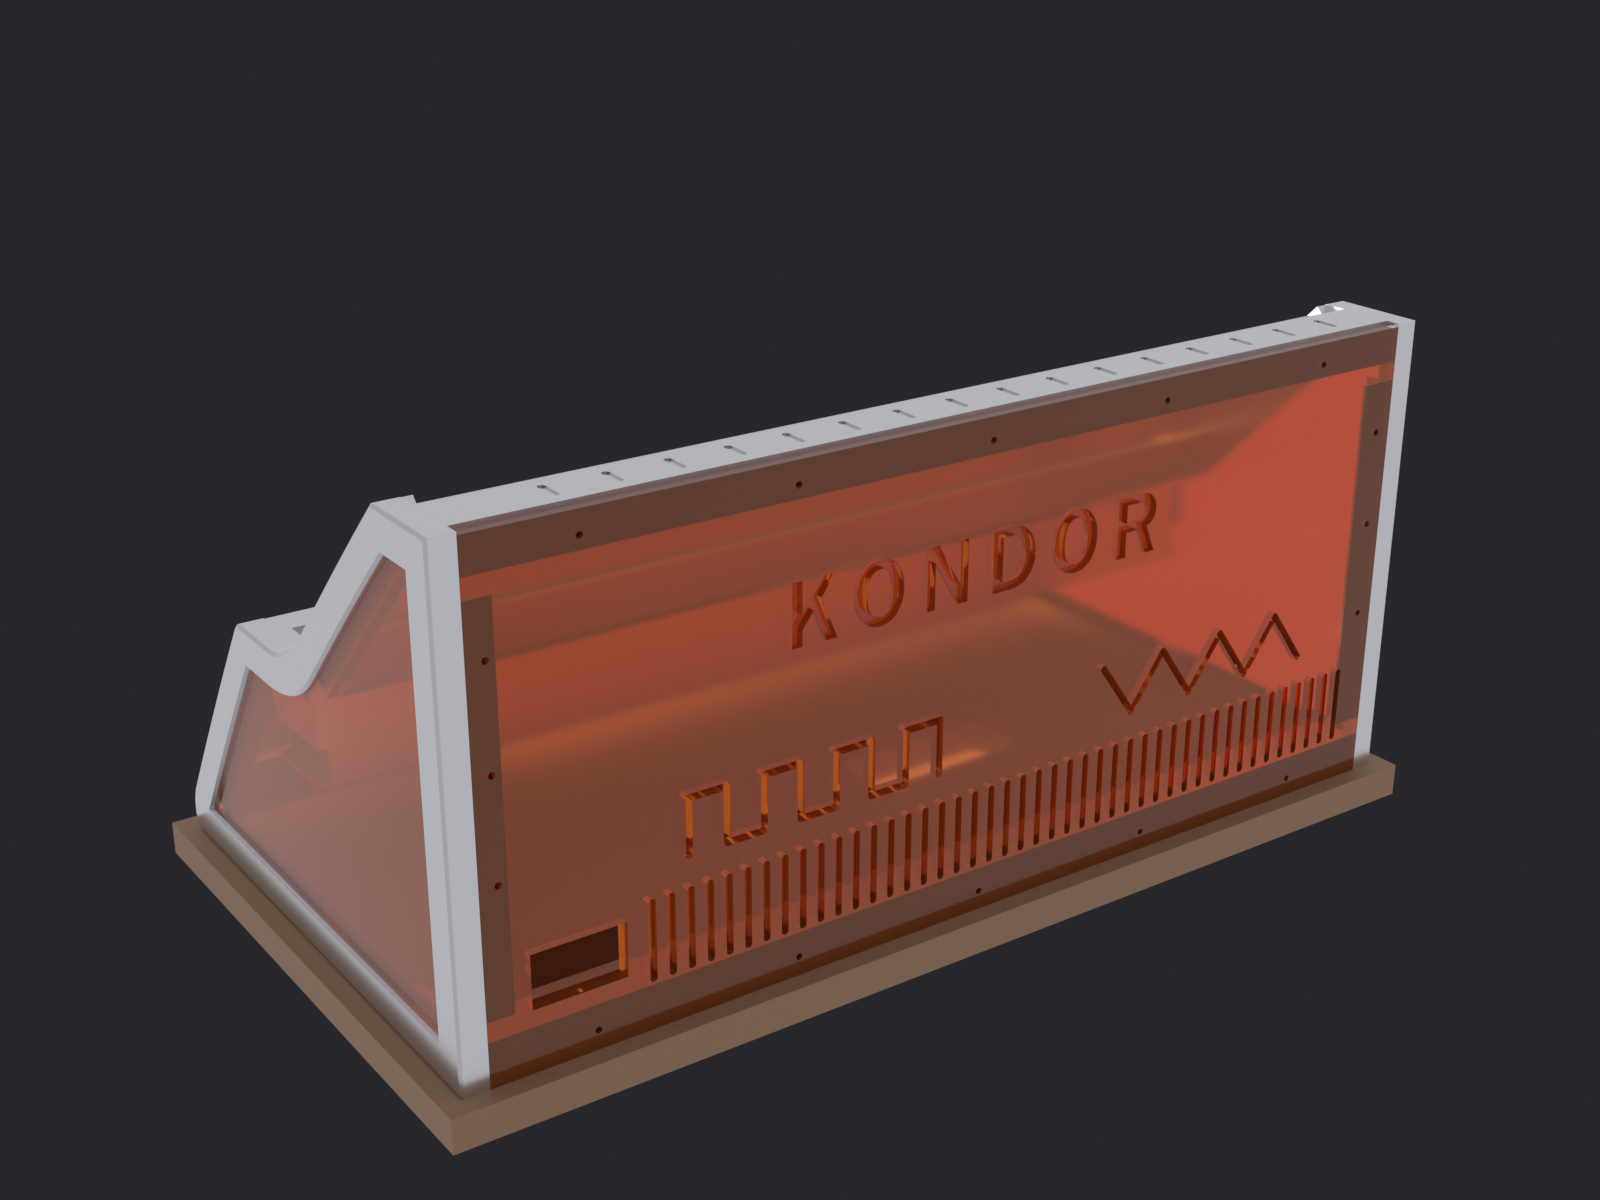
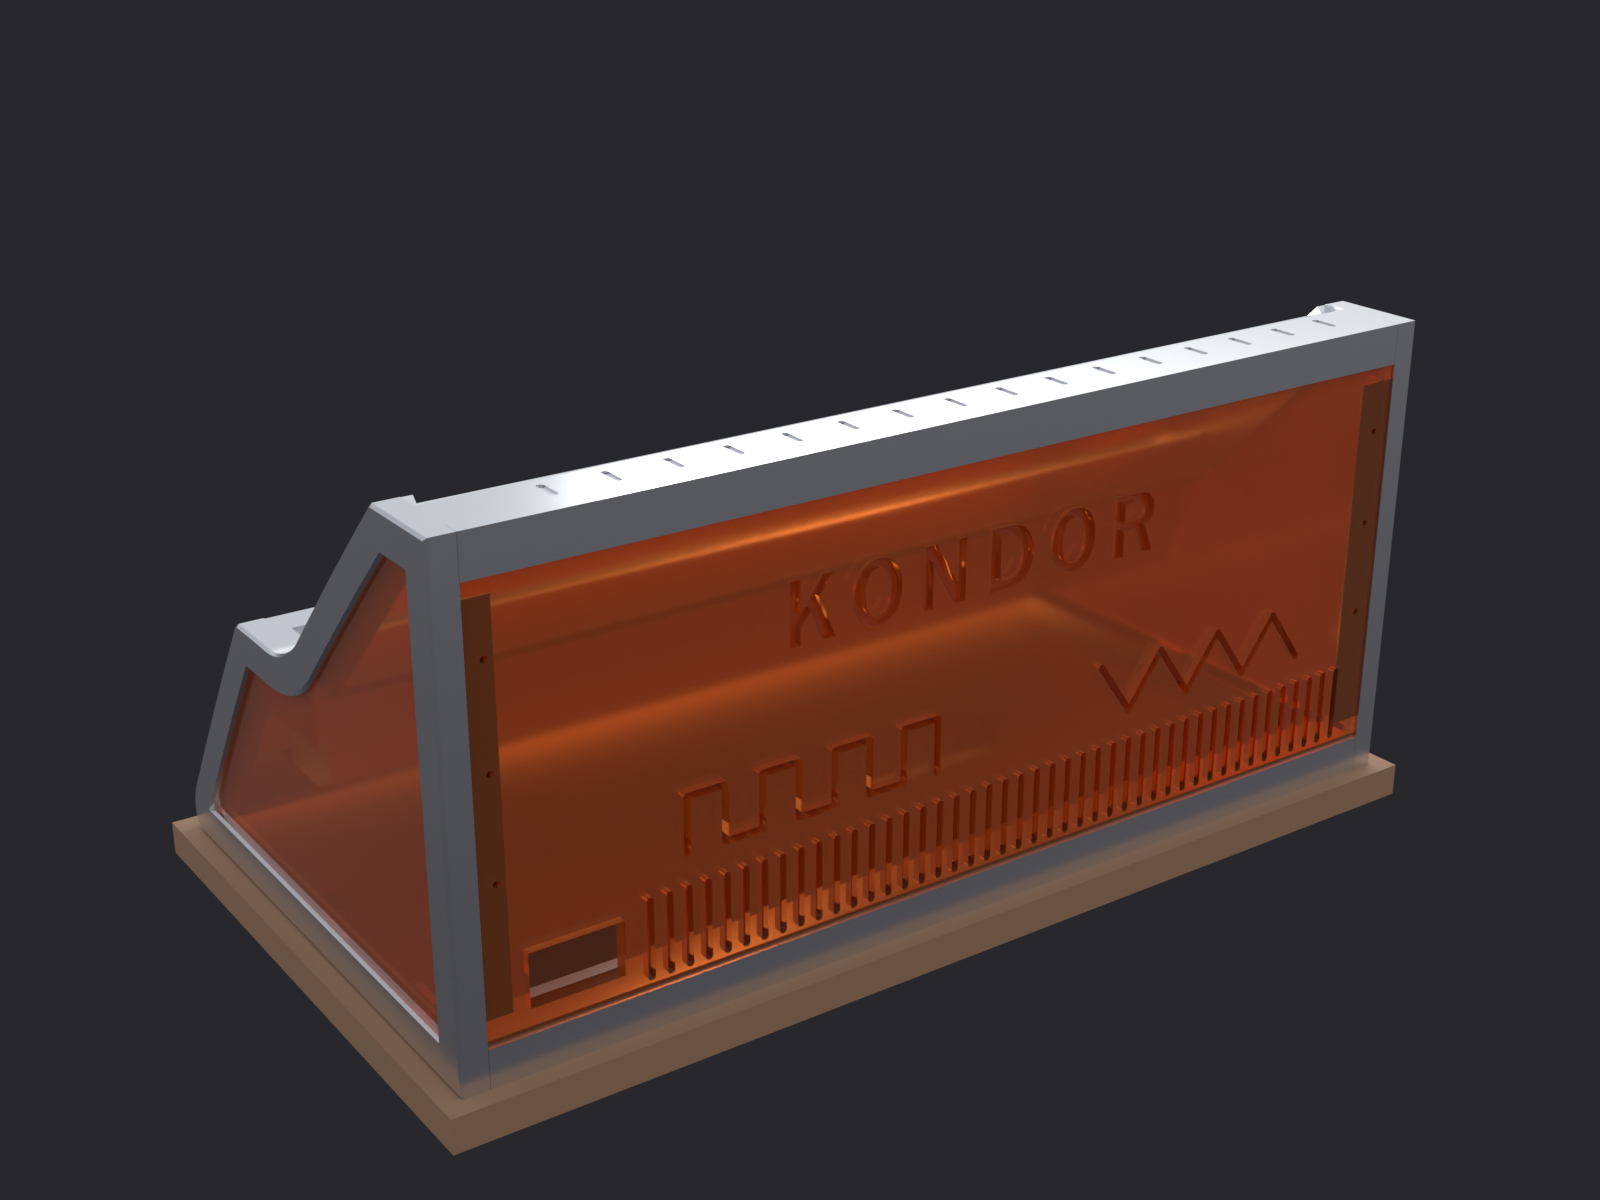
El aluminio no brillaba porque el sitio donde estaba era un gris liso
Dos intentos anteriores fueron de MATERIAL -- rugosidad 0.28 -> 0.25, base mas
oscura, anisotropico a 0 por no haber UV en los STL -- y ninguno movio la aguja,
porque la palanca no estaba ahi. Un metal pulido no brilla por su material:
ensena el entorno. Y el entorno era una esfera de un solo gris (0.6), o sea que
el chaflan reflejaba ese gris por igual en todo su largo. De ahi el degradado
ancho y sin acento.

El relleno GI pasa a ser un entorno de estudio hecho con nodos y sin fichero
HDRI -- un .hdr son megas de binario en un repo que ya carga 300 MB de DXF y
PNG, y no hace falta: la referencia es una vitrina en una sala, o sea suelo
oscuro, una banda clara a la altura de la vista y techo claro. Cinco paradas de
rampa sobre el eje Y, que es el arriba de este ensamblado (lo dice
construir_vista(), no un supuesto).

Y una TIRA, larga y estrecha, que es la primera luz de este fichero con
orientacion. Key y fill son cuadradas y grandes, y una fuente cuadrada se
refleja en un chaflan como una mancha que empieza y acaba -- por eso la arista
se encendia a trozos. Lo que enciende una arista de punta a punta es una fuente
larga y estrecha paralela a ella: es la razon por la que un estudio de producto
usa strip softbox y no un paraguas.

Medido, y las dos cifras van juntas porque una sola miente:

  frente    brillo 0.5903 -> 0.6351   pixeles saturados      3 -> 12732
  trasera   brillo 0.3776 -> 0.3071   pixeles saturados     75 -> 19498
[…]

Changed region(s): [[0.0938, 0.2467, 0.9062, 0.925]]

diff --git a/case/renders/render.py b/case/renders/render.py
@@ -144,12 +144,55 @@ mundo.use_nodes = True
 nt = mundo.node_tree
 fondo_visible = nt.nodes["Background"]
 fondo_visible.inputs[0].default_value = (0.02, 0.02, 0.025, 1)  # lo que ve la camara
+# EL RELLENO GI DEJA DE SER PLANO el 2026-08-29 (#235). Era un gris uniforme de
+# 0.6, y un gris uniforme es exactamente lo que NO tiene el sitio donde se hizo
+# la foto de referencia. Un metal pulido no "brilla" por su material: ensena el
+# entorno que lo rodea, y si el entorno es una esfera de un solo color, la
+# arista chaflanada refleja ese color por igual en todo su largo -- que es el
+# gradiente ancho y sin acento que se vio en los dos intentos anteriores. Los
+# dos fueron de MATERIAL (rugosidad 0.28 -> 0.25, base mas oscura, anisotropico
+# a 0 por falta de UV) y por eso ninguno lo movio: la palanca no estaba ahi.
+#
+# Lo que se pone en su sitio es un entorno de estudio, hecho con nodos y sin
+# fichero HDRI -- un .hdr son megas de binario en un repo que ya carga 300 MB
+# de DXF y PNG, y aqui no hace falta uno: la referencia es una vitrina en una
+# sala, o sea suelo oscuro, una banda clara a la altura de la vista y techo
+# claro. Eso es un degradado con un acento, y un degradado con un acento es
+# una rampa de cinco paradas.
+#
+# EL EJE ES Y y no Z: el ensamblado viene de STL con la altura en Y (lo dice
+# construir_vista(), arriba_mundo = (0,1,0)). Con Z el degradado saldria
+# tumbado y el acento cruzaria el case de lado a lado.
+coord = nt.nodes.new("ShaderNodeTexCoord")
+sep = nt.nodes.new("ShaderNodeSeparateXYZ")
+nt.links.new(coord.outputs["Generated"], sep.inputs["Vector"])
+# de [-1, 1] (mirando al suelo .. mirando al techo) a [0, 1]
+rango = nt.nodes.new("ShaderNodeMapRange")
+rango.inputs["From Min"].default_value = -1.0
+rango.inputs["From Max"].default_value = 1.0
+nt.links.new(sep.outputs["Y"], rango.inputs["Value"])
+rampa = nt.nodes.new("ShaderNodeValToRGB")
+nt.links.new(rango.outputs["Result"], rampa.inputs["Fac"])
+ramp = rampa.color_ramp
+# cinco paradas: suelo, sombra, LA BANDA, caida, techo
+ramp.elements[0].position = 0.00
+ramp.elements[0].color = (0.015, 0.015, 0.02, 1)
+ramp.elements[1].position = 0.46
+ramp.elements[1].color = (0.09, 0.09, 0.10, 1)
+for pos, col in ((0.53, (1.0, 1.0, 1.0, 1)),
+                 (0.62, (0.42, 0.43, 0.46, 1)),
+                 (1.00, (0.62, 0.63, 0.68, 1))):
+    e = ramp.elements.new(pos)
+    e.color = col
 fondo_gi = nt.nodes.new("ShaderNodeBackground")
-fondo_gi.inputs[0].default_value = (0.6, 0.6, 0.63, 1)          # relleno GI, invisible a camara
+nt.links.new(rampa.outputs["Color"], fondo_gi.inputs["Color"])
+# La rampa vive en 0..1 y la energia la pone la fuerza, que es donde puede
+# pasar de 1 sin que Blender la recorte al escribirla.
+fondo_gi.inputs["Strength"].default_value = 1.5
 ruta_luz = nt.nodes.new("ShaderNodeLightPath")
 mezcla = nt.nodes.new("ShaderNodeMixShader")
 nt.links.new(ruta_luz.outputs["Is Camera Ray"], mezcla.inputs[0])
-nt.links.new(fondo_gi.outputs["Background"], mezcla.inputs[1])       # Fac=0 (no camara) -> GI
+nt.links.new(fondo_gi.outputs["Background"], mezcla.inputs[1])       # Fac=0 (no camara) -> entorno
 nt.links.new(fondo_visible.outputs["Background"], mezcla.inputs[2])  # Fac=1 (camara)    -> oscuro
 nt.links.new(mezcla.outputs["Shader"], nt.nodes["World Output"].inputs["Surface"])
 esc.world = mundo
@@ -229,6 +272,19 @@ def construir_vista(azimut: float):
     return derecha, arriba_cam, adelante, distancia
 
 
+def _apuntar(obj, destino: Vector) -> None:
+    """Gira obj para que su -Z local mire a destino. Misma base a mano que
+    construir_vista() y por la misma razon: to_track_quat() referencia el +Z
+    de mundo para el roll, y aqui el arriba del ensamblado es Y."""
+    d = (destino - obj.location).normalized()
+    arriba = Vector((0.0, 1.0, 0.0))
+    if abs(d.dot(arriba)) > 0.999:
+        arriba = Vector((0.0, 0.0, 1.0))
+    der = d.cross(arriba).normalized()
+    arr = der.cross(d).normalized()
+    obj.rotation_euler = Matrix((der, arr, -d)).transposed().to_euler()
+
+
 def poner_luces(derecha: Vector, arriba_cam: Vector, adelante: Vector, distancia: float) -> None:
     """Key/fill ancladas a la base de camara de ESTA vista (no coordenadas
     de mundo fijas) y escaladas con el cuadrado de la distancia (inverso
@@ -266,6 +322,27 @@ def poner_luces(derecha: Vector, arriba_cam: Vector, adelante: Vector, distancia
     fill = bpy.context.object
     fill.data.energy = 1.5e6 * esc_luz ** 2
     fill.data.size = 400 * esc_luz
+    # LA TIRA, el 2026-08-29 (#235). Key y fill son cuadradas y grandes: una
+    # fuente cuadrada se refleja en un chaflan como una MANCHA, y la mancha
+    # empieza y acaba -- por eso la arista se encendia a trozos. Lo que hace
+    # brillar una arista de punta a punta es una fuente LARGA Y ESTRECHA
+    # paralela a ella, que es la razon por la que un estudio de producto usa
+    # strip softbox y no un paraguas. Aqui mide dos radios de largo por 40 de
+    # ancho, va por encima y al lado de la camara, y APUNTA AL CENTRO: es la
+    # primera luz de este fichero que se orienta. Las otras dos no tienen
+    # rotacion, o sea que emiten hacia el -Z de mundo, que en este ensamblado
+    # (Y arriba) es de canto; funcionan de rebote y por eso piden tanta
+    # energia. La tira no: pega donde se apunta.
+    bpy.ops.object.light_add(type="AREA",
+                             location=centro + arriba_cam * radio * 1.5
+                                      + derecha * radio * 0.5
+                                      + adelante * distancia * 0.15)
+    tira = bpy.context.object
+    tira.data.shape = "RECTANGLE"
+    tira.data.size = radio * 2.0
+    tira.data.size_y = 40 * esc_luz
+    tira.data.energy = 1.0e6 * esc_luz ** 2
+    _apuntar(tira, centro)
 
 
 def medir(ruta_png: str) -> tuple[float, float]:

diff --git a/case/clearance_budget.py b/case/clearance_budget.py
@@ -3188,6 +3188,28 @@ def guarda_marco_trasera(p: dict[str, float]) -> None:
         f"el canto de abajo de la trasera esta en y={panel[3]:.2f} y la tabla "
         f"ocupa y={tabla[3]:.2f}..{tabla[4]:.2f}: no lo tapa nadie, y esa "
         f"banda no lleva ala porque se supone que si")
+    # LAS BANDAS NO SE COMEN LA VENTILACION NI LA VENTANA DE RED, y esto hace
+    # falta comprobarlo porque NADIE MAS LO VE: guarda_aire() cuenta el area de
+    # las 44 ranuras leyendo el DXF de la trasera, y una banda de aluminio
+    # atornillada encima no aparece en ese fichero. La de abajo llega a y=20 y
+    # el campo libre arranca en 24.5: son 4.5 mm de sobra, o sea que subir
+    # marco_trasera_ancho tres milimetros tapa ranuras sin que el presupuesto
+    # termico se entere. Misma trampa que la escuadra tapando la primera
+    # columna el 28-08, con la diferencia de que aquella se resto y esta no
+    # tendria por que existir.
+    lib0, lib1 = _banda_libre_trasera(p)
+    for m in marcos:
+        assert m["y1"] <= lib0 or m["y0"] >= lib1, (
+            f"'{m['nombre']}' ocupa y={m['y0']:.2f}..{m['y1']:.2f} y el campo "
+            f"libre de la trasera -- la rejilla de entrada y la ventana de red "
+            f"-- va de {lib0:.2f} a {lib1:.2f}. La banda taparia area que "
+            f"guarda_aire() cuenta como abierta leyendo el DXF, donde la banda "
+            f"no sale")
+        for _, y in _centros_m3_escuadra(p):
+            assert not (m["y0"] - 1e-9 <= y <= m["y1"] + 1e-9), (
+                f"un M3 de escuadra cae en y={y:.2f}, dentro de "
+                f"'{m['nombre']}' ({m['y0']:.2f}..{m['y1']:.2f}): la banda le "
+                f"tapa la cabeza y esa escuadra deja de poder atornillarse")
     raiz = _escuadra_raiz(p)
     desde_esquina = sup["y1"] - sup["m3"]
     assert desde_esquina >= raiz, (
